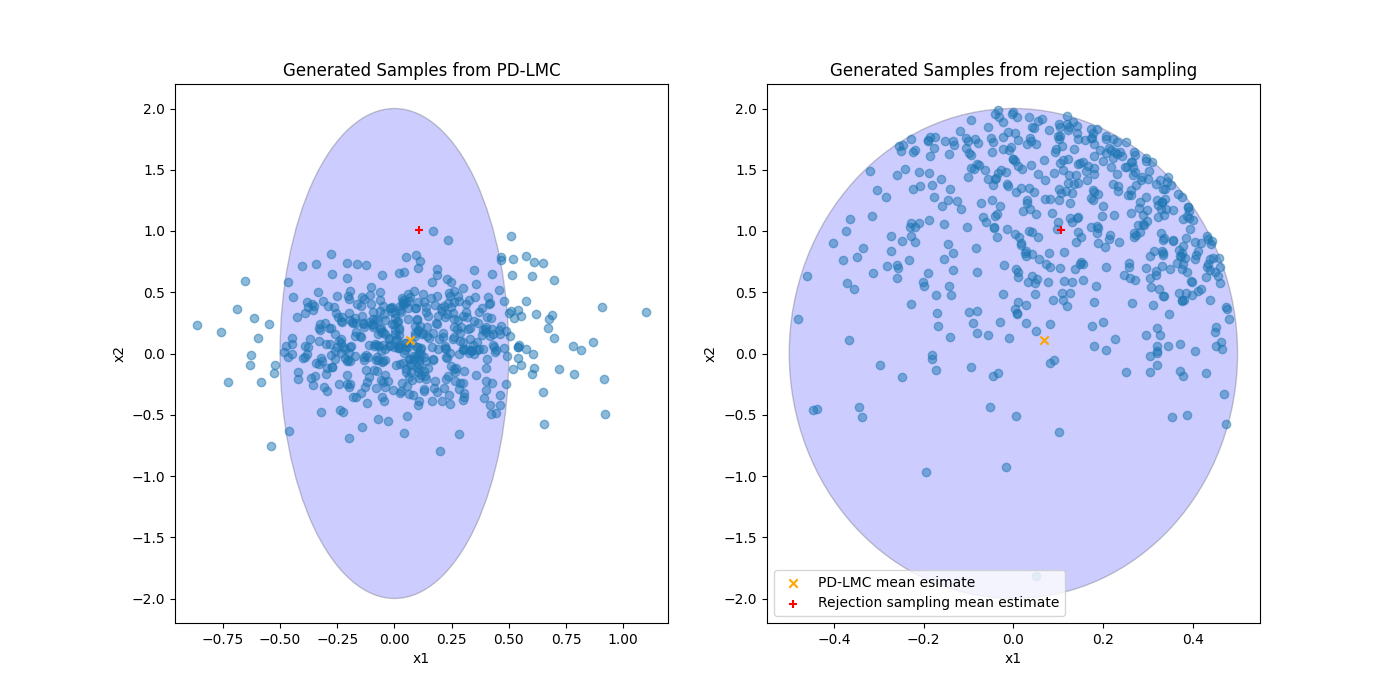
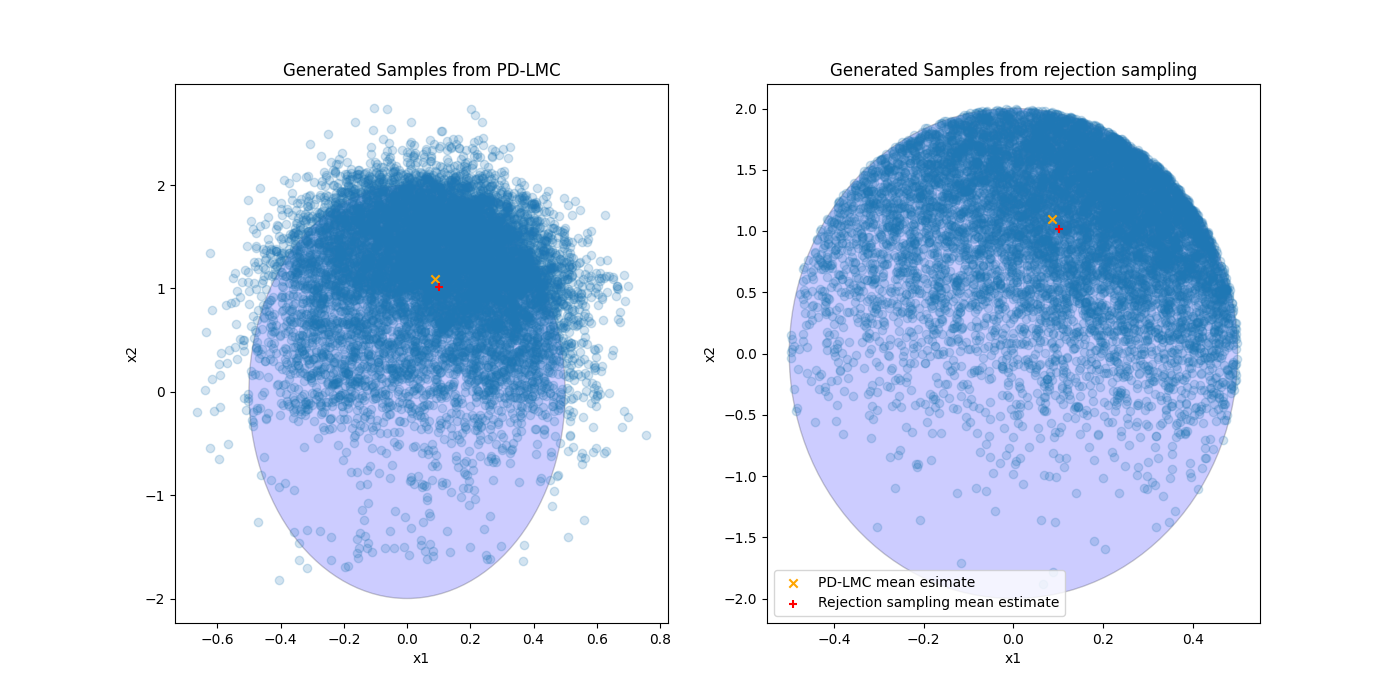
Optimized the lmc algorithm by removing useless gradient computations

diff --git a/src/main.py b/src/main.py
@@ -1,83 +1,56 @@
 import torch
-import matplotlib.pyplot as plt
-from matplotlib.patches import Ellipse
 from argparse import ArgumentParser
-from tqdm import tqdm
 import numpy as np
 from time import time
 
 from lmc import pd_lmc
-from utils import ConvexQuadratic, EllipsoidConstraint, Zero
+from utils import ConvexQuadratic, EllipsoidConstraint, Zero, truncated_gaussian_plotting
 from rejection import rejection_sampling
 
 
 parser = ArgumentParser(description="Script that samples from a 2D truncated standard Gaussian distribution using Primal-Dual Langevin Monte Carlo. \
-                        The support of the truncated Gaussian is an ellipse aligned with the x,y axes.")
+                        The support of the truncated Gaussian is an ellipse aligned with the x,y axes.\n\
+                        Note: the script only runs on cpu, cuda is not supported.")
 
 
-parser.add_argument("--eta", type=float, default=1e-3, help= "Learning rate for the PD-LMC algorithm")
-parser.add_argument("--n_iter", type=int, default=50, help= "Number of iterations for the PD-LMC algorithm")
+parser.add_argument("--eta", type=float, default=5e-3, help= "Learning rate for the PD-LMC algorithm")
+parser.add_argument("--n_burnin", type=int, default=10000, help= "Number of burn-in iterations for the PD-LMC algorithm")
+parser.add_argument("--n_samples", type = int, default = 10000, help = "Number of samples to generate")
 parser.add_argument("--m1", type = float, default=2, help= "First component of the mean vector of the base gaussian distribution")
 parser.add_argument("--m2", type = float, default=2, help= "Second component of the mean vector of the base gaussian distribution")
 parser.add_argument("--C11", type = float, default=0.5, help= "Length of the first semi-axis of the ellipsoid support")
 parser.add_argument("--C22", type = float, default=2, help= "Length of the second semi-axis of the ellipsoid support")
-parser.add_argument("--n_samples", type = int, default = 500, help = "Number of samples to generate")
-parser.add_argument("--plot_path", type = str, default = "./figures/", help = "Path of directory where the plots are saved")
+parser.add_argument("--plot_path", type = str, default = "./figures/", help = "Directory where the plots are saved")
 
 args = parser.parse_args()
 
 
 if __name__ ==  "__main__":
 
+    # Set seeds
+    np.random.seed(42)
+    torch.manual_seed(42)    
+
     # Log-density of standard normal distribution of mean m
     m = torch.tensor([args.m1, args.m2])
     f = ConvexQuadratic(m)
 
-    # g(x) <= 0 iff x is in the ellipsoid centered at 0 aligned with x and y, of semi axes of length C11 and C22
+    # g(x) <= 0 iff x is in the ellipse centered at 0 of covariance C
     C = torch.diag(torch.tensor([1/args.C11**2, 1/args.C22**2]))
     g = EllipsoidConstraint(torch.zeros_like(m), C)
 
     # h(x) = 0 (no equality constraint)
     h = Zero()
 
-
     # Generate samples with LMC
-    samples_lmc = np.zeros((args.n_samples, 2))
-    for i in tqdm(range(args.n_samples)):
-        samples_lmc[i,:] = pd_lmc(f = f, g = g, h = h, eta = args.eta, n_iter = args.n_iter, x_0 = torch.zeros(2)).numpy()
-    lmc_mean = np.mean(samples_lmc, axis = 0)
+    start_time = time()
+    samples_lmc = pd_lmc(f = f, g = g, h = h, eta = args.eta, n_samples = args.n_samples, n_burnin = args.n_burnin, x_0 = torch.zeros(2))
+    print(f"Time to perform PD-LMC: {time() - start_time:.2f} seconds")
 
-    
     # Generate samples via rejection sampling
+    start_time = time()
     samples_rejection = rejection_sampling(n_samples = args.n_samples, m = m.detach().numpy(), C = C.detach().numpy())
-    rejection_mean = np.mean(samples_rejection, axis = 0)
+    print(f"Time to perform rejection sampling: {time() - start_time:.2f} seconds")
     
-
-
     # Plotting
-    fig, ax = plt.subplots(1, 2, figsize = (14,7))
-
-    ellipse = Ellipse((0., 0.), 2 * args.C11, 2 * args.C22, angle = 0., facecolor = "blue", alpha = .2, edgecolor = "black")
-
-    ax[0].add_patch(ellipse)
-    ax[0].scatter(samples_lmc[:, 0], samples_lmc[:, 1], alpha=0.5)
-    ax[0].scatter(lmc_mean[0], lmc_mean[1], marker = 'x', color = 'orange', label = "PD-LMC mean esimate")
-    ax[0].scatter(rejection_mean[0], rejection_mean[1], marker = '+', color = 'red', label = "Rejection sampling mean estimate")
-    ax[0].set_xlabel('x1')
-    ax[0].set_ylabel('x2')
-    ax[0].set_title('Generated Samples from PD-LMC')
-
-
-    ellipse = Ellipse((0., 0.), 2 * args.C11, 2 * args.C22, angle = 0., facecolor = "blue", alpha = .2, edgecolor = "black")
-
-    ax[1].add_patch(ellipse)
-    ax[1].scatter(samples_rejection[:, 0], samples_rejection[:, 1], alpha=0.5)
-    ax[1].scatter(lmc_mean[0], lmc_mean[1], marker = 'x', color = 'orange', label = "PD-LMC mean esimate")
-    ax[1].scatter(rejection_mean[0], rejection_mean[1], marker = '+', color = 'red', label = "Rejection sampling mean estimate")
-    ax[1].set_xlabel('x1')
-    ax[1].set_ylabel('x2')
-    ax[1].set_title('Generated Samples from rejection sampling')
-    ax[1].legend(loc = 'lower left')
-
-
-    plt.savefig(f"{args.plot_path}/generated_samples.png")
+    truncated_gaussian_plotting(plot_path=args.plot_path, samples_lmc=samples_lmc, samples_rejection=samples_rejection, C11 = args.C11, C22 = args.C22)

diff --git a/src/lmc.py b/src/lmc.py
@@ -1,63 +1,54 @@
 import torch
 import torch.nn as nn
+import numpy as np
 from math import sqrt
+from tqdm import tqdm
+from typing import List, Tuple
 
 
 def pd_lmc(f : nn.Module, g : nn.Module, h : nn.Module, 
-           eta : float, n_iter : int, x_0 : torch.Tensor) -> torch.Tensor:
+           eta : float, n_samples : int, n_burnin : int, x_0 : torch.Tensor) -> List[np.ndarray]:
     """ 
     Runs the Primal-Dual Langevin Monte Carlo algorithm
 
     Inputs:
     --------
-    - f (torch.nn.Module): function such that the target distribution pi verifies pi(x) = exp(-f(x)) / Z, where Z is a normalization constant
-    - g (torch.nn.Module): defining function for the inequality constraints
-    - h (torch.nn.Module): defining function for the equality constraints
+    - f (Module): function such that the target distribution pi verifies pi(x) = exp(-f(x)) / Z, where Z is a normalization constant
+    - g (Module): defining function for the inequality constraints
+    - h (Module): defining function for the equality constraints
     - eta (float): learning rate
-    - n_iter (int): number of iterations
-    - x_0 (torch.Tensor): initialization of x_k
+    - n_samples (int): number of samples to generate from the solution mu*
+    - n_burnin (int): number of iterations performed before sampling
+    - x_0 (Tensor): initialization of x_k
 
     Outputs:
     --------
-    - x_K (torch.Tensor): generated sample from PD-LMC
+    - samples (List[ndarray]): generated samples from PD-LMC
     """
     
     x_k = torch.clone(x_0).requires_grad_(True)
-    lambda_k = torch.zeros_like(g(x_0)).requires_grad_(False)
-    nu_k = torch.zeros_like(h(x_0)).requires_grad_(False)
+    lambda_k = torch.zeros_like(g(x_0))
+    nu_k = torch.zeros_like(h(x_0))
 
-    for k in range(n_iter):
-        x_k, lambda_k, nu_k = pd_lmc_iteration(f = f, g = g, h = h, x_k = x_k, lambda_k = lambda_k, nu_k = nu_k, eta = eta)
+    samples_tensor = torch.empty((n_samples,) + x_0.shape)
+    sample_idx = 0
 
-    return x_k.detach()
+    noise = sqrt(2 * eta) * torch.randn((n_samples + n_burnin,) + x_0.shape)
 
+    for k in tqdm(range(n_samples + n_burnin), desc = "PD-LMC steps"):
+        g_val = g(x_k)
+        h_val = h(x_k)
+        U_val = f(x_k) + torch.dot(lambda_k, g_val) + torch.dot(nu_k, h_val)
+        grad = torch.autograd.grad(U_val, x_k, create_graph=False)[0]
 
-def pd_lmc_iteration(f : nn.Module, g : nn.Module, h : nn.Module,
-                     x_k : torch.Tensor, lambda_k : torch.Tensor, nu_k : torch.Tensor,
-                     eta : float):
-    """ 
-    Runs an iteration of the Primal-Dual Langevin Monte Carlo algorithm
+        with torch.no_grad():
+            x_next = x_k - eta * grad + noise[k]
+            x_k = x_next.detach().requires_grad_(True)
+            lambda_k = torch.max(lambda_k + eta * g_val, torch.zeros_like(lambda_k))
+            nu_k = nu_k + eta * h_val
 
-    Inputs:
-    --------
-    - f (torch.nn.Module): function such that the target distribution pi verifies pi(x) = exp(-f(x)) / Z, where Z is a normalization constant
-    - g (torch.nn.Module): defining function for the inequality constraints
-    - h (torch.nn.Module): defining function for the equality constraints
-    - x_k (torch.Tensor): value of x_k at the start of the iteration
-    - lambda_k (torch.Tensor): value of lambda_k at the start of the iteration
-    - eta (float): learning rate
+            if k >= n_burnin:
+                samples_tensor[sample_idx] = x_k.detach()
+                sample_idx += 1
 
-    Outputs:
-    --------
-    - x_k (torch.Tensor): generated sample from PD-LMC
-    """
-    
-    U_xk = f(x_k) + torch.dot(lambda_k, g(x_k)) + torch.dot(nu_k, h(x_k))
-    U_xk.backward(retain_graph = True)
-    x_next = x_k - eta * x_k.grad + sqrt(2 * eta) * torch.randn_like(x_k)
-
-    lambda_k = torch.max(lambda_k + eta * g(x_k), torch.zeros_like(lambda_k))
-    nu_k = nu_k + eta * h(x_k)
-    x_k = x_next.detach().requires_grad_(True)
-
-    return x_k, lambda_k, nu_k
+    return samples_tensor.cpu().numpy()

diff --git a/src/utils.py b/src/utils.py
@@ -1,5 +1,10 @@
 import torch
 import torch.nn as nn
+import torch.nn.functional as F
+
+import numpy as np
+import matplotlib.pyplot as plt
+from matplotlib.patches import Ellipse
 
 
 class ConvexQuadratic(nn.Module):
@@ -15,13 +20,14 @@ class ConvexQuadratic(nn.Module):
 
 class EllipsoidConstraint(nn.Module):
     
-    def __init__(self, m : torch.Tensor, C : torch.Tensor):
+    def __init__(self, m : torch.Tensor, C : torch.Tensor, slack : float = 0.001):
         super(EllipsoidConstraint, self).__init__()
         self.m = m
         self.C = C
+        self.slack = slack
 
     def forward(self, x):
-        return torch.dot(torch.matmul(self.C, x - self.m), x - self.m).unsqueeze(0) - 1
+        return F.relu(torch.dot(torch.matmul(self.C, x - self.m), x - self.m).unsqueeze(0) - 1) - self.slack
     
 
 
@@ -33,3 +39,38 @@ class Zero(nn.Module):
     def forward(self, x):
         return torch.Tensor([0.])
         
+
+
+def truncated_gaussian_plotting(plot_path : str, 
+                                samples_lmc : np.ndarray, samples_rejection : np.ndarray, 
+                                C11 : float, C22 : float):
+    """ 
+    Reproduces Figure 2 in Chamon et al. "Constrained Sampling with Primal-Dual Langevin Monte Carlo"
+    """
+    
+    lmc_mean = np.mean(samples_lmc, axis = 0)
+    rejection_mean = np.mean(samples_rejection, axis = 0)
+
+    fig, ax = plt.subplots(1, 2, figsize = (14,7))
+
+    ellipse = Ellipse((0., 0.), 2 * C11, 2 * C22, angle = 0., facecolor = "blue", alpha = .2, edgecolor = "black")
+    ax[0].add_patch(ellipse)
+    ax[0].scatter(samples_lmc[:, 0], samples_lmc[:, 1], alpha=0.2)
+    ax[0].scatter(lmc_mean[0], lmc_mean[1], marker = 'x', color = 'orange', label = "PD-LMC mean esimate")
+    ax[0].scatter(rejection_mean[0], rejection_mean[1], marker = '+', color = 'red', label = "Rejection sampling mean estimate")
+    ax[0].set_xlabel('x1')
+    ax[0].set_ylabel('x2')
+    ax[0].set_title('Generated Samples from PD-LMC')
+
+
+    ellipse = Ellipse((0., 0.), 2 * C11, 2 * C22, angle = 0., facecolor = "blue", alpha = .2, edgecolor = "black")
+    ax[1].add_patch(ellipse)
+    ax[1].scatter(samples_rejection[:, 0], samples_rejection[:, 1], alpha=0.2)
+    ax[1].scatter(lmc_mean[0], lmc_mean[1], marker = 'x', color = 'orange', label = "PD-LMC mean esimate")
+    ax[1].scatter(rejection_mean[0], rejection_mean[1], marker = '+', color = 'red', label = "Rejection sampling mean estimate")
+    ax[1].set_xlabel('x1')
+    ax[1].set_ylabel('x2')
+    ax[1].set_title('Generated Samples from rejection sampling')
+    ax[1].legend(loc = 'lower left')
+
+    plt.savefig(f"{plot_path}/generated_samples.png")

diff --git a/README.md b/README.md
@@ -1,1 +1,41 @@
-# primal-dual-LMC
+# Primal-Dual Langevin Monte Carlo
+
+Implementation of the Primal-Dual Langevin Monte Carlo algorithm introduced in [Chamon et al. "Constrained Sampling with Primal-Dual Langevin Monte Carlo"](https://arxiv.org/abs/2411.00568). This repository aims to reproduce the 2D truncated Gaussian experiment presented in the original paper, in the case where the support of the distirbution is an axis-aligned ellipse.
+
+## Running the experiment
+
+To reproduce the experiment, run the following command
+
+```bash
+python src/main.py
+```
+
+## Repository structure
+
+
+```bash
+├── README.md                             # This file
+├── figures
+│   └── generated_samples.png             # Generated figure when running src/main.py
+├── requirements.txt
+└── src
+    ├── lmc.py                            # Includes the code for running Primal-Dual Langevin Monte Carlo
+    ├── main.py                           # Runs the 2D truncated Gaussian experiment
+    ├── rejection.py                      # Code for rejection sampling 
+    └── utils.py                          # Utility functions for the 2D truncated Gaussian experiment
+``` 
+
+## Citation
+
+This implementation is based on this paper
+
+```bash
+@InProceedings{Chamon24c,
+    author = "Chamon, L. F. O. and Jaghargh, M. R. K. and Korba, A.",
+    title = "Constrained sampling with primal-dual {L}angevin {M}onte {C}arlo",
+    booktitle = "Conference on Neural Information Processing Systems (NeurIPS)",
+    year = "2024",
+}
+```
+
+and on its accompanying [repository](https://github.com/lfochamon/pdlmc/tree/main).
